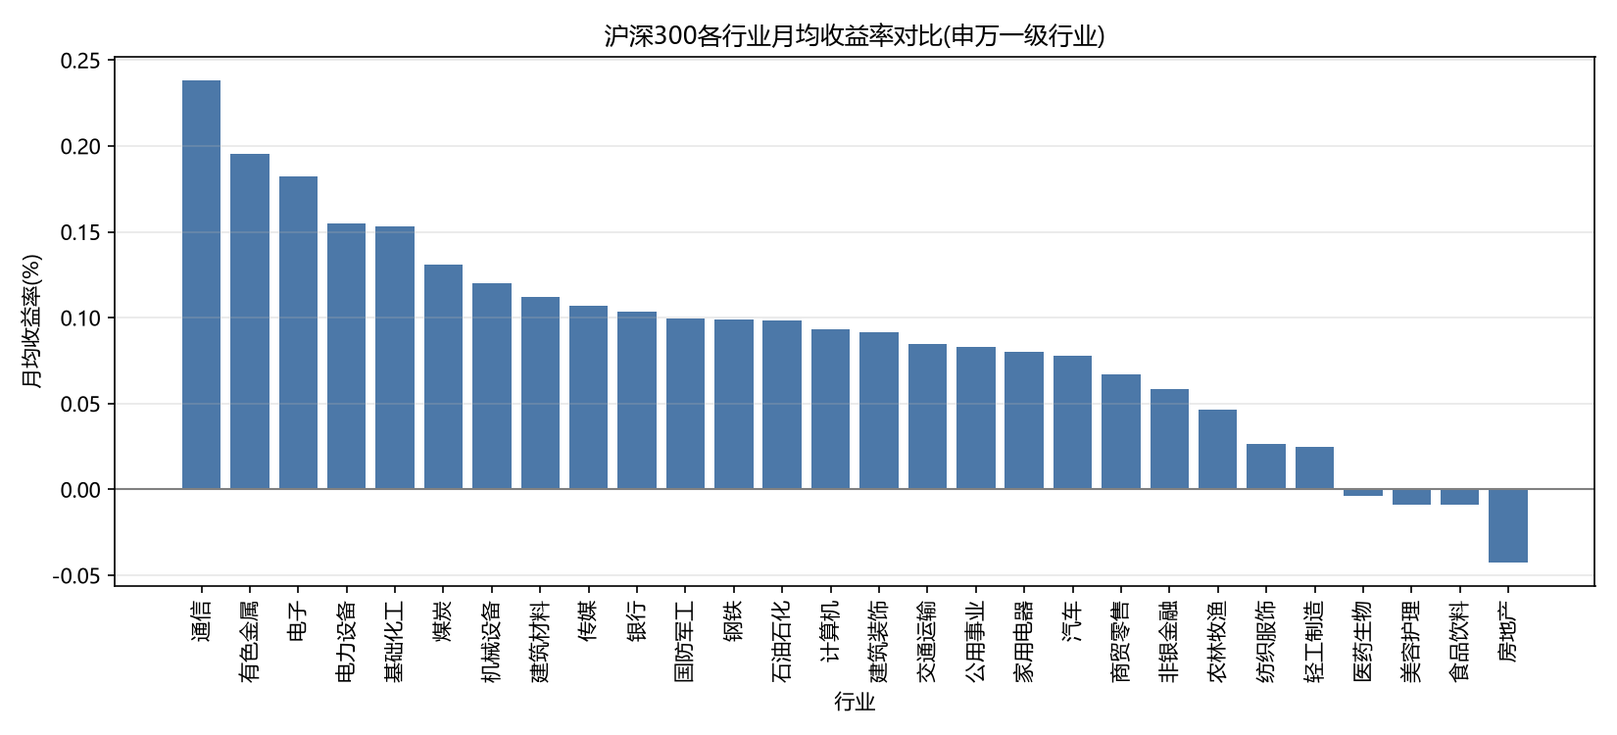
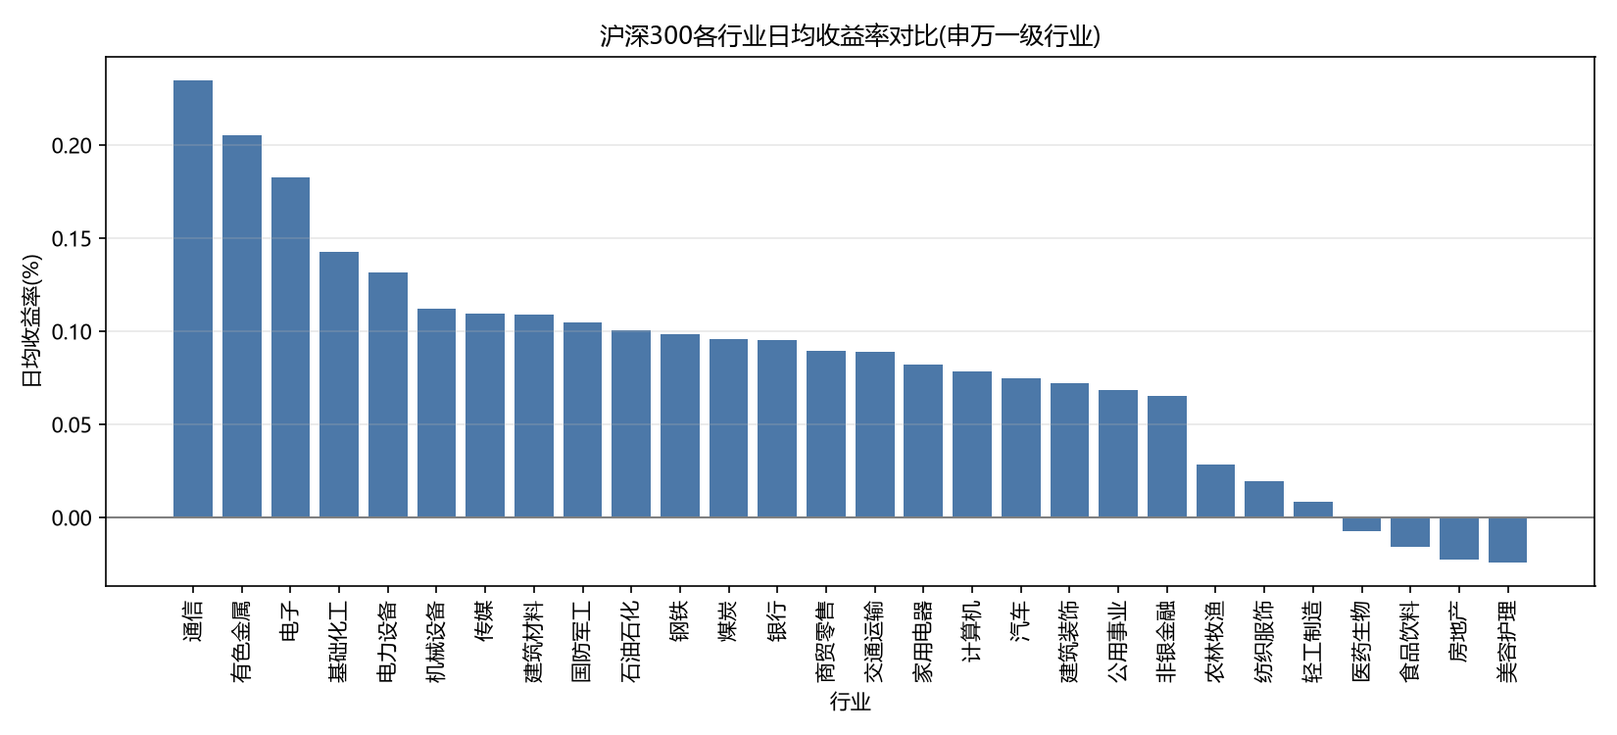
fix: 修正统计口径与行业分类, 提升结论严谨性
行业维度表
- 改用 akshare 申万一级行业官方成分股接口拉取, 逐股交叉校验
- 修正 6 只归类: 藏格矿业/德赛西威/汇川技术/中国动力/海南机场/中国卫通

统计口径
- 行业收益改按日收益率直接聚合: 原'月均值的均值'使各月等权而非各天等权,
  实测偏差最高 36.7% 且会改变排名
- 跨年份波动率对比统一只取 1-3 月: 2026 仅 44 个交易日, 与 2024/2025 的
  242/243 天不可比; 修正后通信波动率实为持平, 持续上升的是传媒

文档
- README 修正交易日数 540 -> 529, 更新结论与图表口径说明
- 补充停牌缺失的判定证据(开=收=高=低, 振幅=0, 涨跌额=0)

diff --git a/_gen_industry.py b/_gen_industry.py
@@ -1,71 +1,31 @@
 # -*- coding: utf-8 -*-
-"""一次性脚本: 依据真实成分股名单生成行业维度表 industry.csv"""
+"""生成行业维度表 data/industry.csv —— 数据源为申万一级行业分类的官方成分股接口。
+
+依赖 akshare 且需联网:  pip install akshare
+产物 industry.csv 已随仓库提交, 正常跑主脚本 eda_hs300.py 不需要执行本文件。
+本文件仅用于说明行业维度表的来源, 并在分类更新时重新生成。
+"""
+import akshare as ak
 import pandas as pd
 
-# 申万一级行业映射(按公开的申万行业分类标准整理)
-IND = {
-"600000":"银行","600009":"交通运输","600010":"钢铁","600011":"公用事业","600015":"银行","600016":"银行",
-"600018":"交通运输","600019":"钢铁","600023":"公用事业","600025":"公用事业","600026":"交通运输","600027":"公用事业",
-"600028":"石油石化","600029":"交通运输","600030":"非银金融","600031":"机械设备","600036":"银行","600039":"建筑装饰",
-"600048":"房地产","600050":"通信","600061":"非银金融","600066":"汽车","600085":"医药生物","600089":"电力设备",
-"600104":"汽车","600111":"有色金属","600115":"交通运输","600150":"国防军工","600160":"基础化工","600161":"医药生物",
-"600176":"建筑材料","600183":"电子","600188":"煤炭","600196":"医药生物","600219":"有色金属","600233":"交通运输",
-"600276":"医药生物","600309":"基础化工","600346":"石油石化","600362":"有色金属","600372":"国防军工","600377":"交通运输",
-"600406":"电力设备","600415":"商贸零售","600426":"基础化工","600436":"医药生物","600438":"电力设备","600460":"电子",
-"600482":"国防军工","600489":"有色金属","600515":"交通运输","600519":"食品饮料","600522":"通信","600547":"有色金属",
-"600570":"计算机","600584":"电子","600585":"建筑材料","600588":"计算机","600600":"食品饮料","600660":"汽车",
-"600674":"公用事业","600690":"家用电器","600741":"汽车","600760":"国防军工","600795":"公用事业","600803":"公用事业",
-"600809":"食品饮料","600845":"计算机","600875":"电力设备","600886":"公用事业","600887":"食品饮料","600893":"国防军工",
-"600900":"公用事业","600905":"公用事业","600918":"非银金融","600919":"银行","600926":"银行","600930":"公用事业",
-"600938":"石油石化","600941":"通信","600958":"非银金融","600989":"基础化工","600999":"非银金融","601006":"交通运输",
-"601009":"银行","601012":"电力设备","601018":"交通运输","601021":"交通运输","601058":"汽车","601059":"非银金融",
-"601066":"非银金融","601077":"银行","601088":"煤炭","601100":"机械设备","601111":"交通运输","601117":"建筑装饰",
-"601127":"汽车","601136":"非银金融","601138":"电子","601166":"银行","601169":"银行","601186":"建筑装饰",
-"601211":"非银金融","601225":"煤炭","601229":"银行","601236":"非银金融","601238":"汽车","601288":"银行",
-"601298":"交通运输","601318":"非银金融","601319":"非银金融","601328":"银行","601336":"非银金融","601360":"计算机",
-"601377":"非银金融","601390":"建筑装饰","601398":"银行","601456":"非银金融","601600":"有色金属","601601":"非银金融",
-"601607":"医药生物","601618":"建筑装饰","601628":"非银金融","601633":"汽车","601658":"银行","601668":"建筑装饰",
-"601669":"建筑装饰","601688":"非银金融","601689":"汽车","601698":"通信","601728":"通信","601766":"机械设备",
-"601788":"非银金融","601800":"建筑装饰","601808":"石油石化","601816":"交通运输","601818":"银行","601825":"银行",
-"601838":"银行","601857":"石油石化","601868":"建筑装饰","601872":"交通运输","601877":"电力设备","601878":"非银金融",
-"601881":"非银金融","601888":"商贸零售","601898":"煤炭","601899":"有色金属","601901":"非银金融","601916":"银行",
-"601919":"交通运输","601939":"银行","601985":"公用事业","601988":"银行","601995":"非银金融","601998":"银行",
-"603019":"计算机","603195":"轻工制造","603259":"医药生物","603260":"基础化工","603288":"食品饮料","603296":"电子",
-"603369":"食品饮料","603392":"医药生物","603501":"电子","603799":"有色金属","603893":"电子","603986":"电子",
-"603993":"有色金属","605117":"电力设备","605499":"食品饮料","688008":"电子","688009":"机械设备","688012":"电子",
-"688036":"电子","688041":"电子","688047":"电子","688082":"电子","688111":"计算机","688126":"电子",
-"688169":"家用电器","688187":"机械设备","688223":"电力设备","688256":"电子","688271":"医药生物","688303":"电力设备",
-"688396":"电子","688472":"电力设备","688506":"医药生物","688981":"电子","000001":"银行","000002":"房地产",
-"000063":"通信","000100":"电子","000157":"机械设备","000166":"非银金融","000301":"石油石化","000333":"家用电器",
-"000338":"汽车","000408":"有色金属","000425":"机械设备","000538":"医药生物","000568":"食品饮料","000596":"食品饮料",
-"000617":"非银金融","000625":"汽车","000630":"有色金属","000651":"家用电器","000661":"医药生物","000708":"钢铁",
-"000725":"电子","000768":"国防军工","000776":"非银金融","000786":"建筑材料","000792":"基础化工","000807":"有色金属",
-"000858":"食品饮料","000876":"农林牧渔","000895":"食品饮料","000938":"计算机","000963":"医药生物","000975":"有色金属",
-"000977":"计算机","000983":"煤炭","000999":"医药生物","001391":"交通运输","001965":"交通运输","001979":"房地产",
-"002001":"基础化工","002027":"传媒","002028":"电力设备","002049":"电子","002050":"家用电器","002074":"电力设备",
-"002142":"银行","002179":"国防军工","002230":"计算机","002236":"计算机","002241":"电子","002252":"医药生物",
-"002304":"食品饮料","002311":"农林牧渔","002352":"交通运输","002371":"电子","002384":"电子","002415":"计算机",
-"002422":"医药生物","002459":"电力设备","002460":"有色金属","002463":"电子","002466":"有色金属","002475":"电子",
-"002493":"石油石化","002594":"汽车","002600":"电子","002601":"基础化工","002625":"国防军工","002648":"基础化工",
-"002709":"电力设备","002714":"农林牧渔","002736":"非银金融","002916":"电子","002920":"汽车","002938":"电子",
-"003816":"公用事业","300014":"电力设备","300015":"医药生物","300033":"计算机","300059":"非银金融","300122":"医药生物",
-"300124":"电力设备","300251":"传媒","300274":"电力设备","300308":"通信","300316":"电力设备","300347":"医药生物",
-"300394":"通信","300408":"电子","300413":"传媒","300418":"传媒","300433":"电子","300442":"通信",
-"300476":"电子","300498":"农林牧渔","300502":"通信","300628":"通信","300661":"电子","300750":"电力设备",
-"300759":"医药生物","300760":"医药生物","300782":"电子","300803":"计算机","300832":"医药生物","300866":"电子",
-"300896":"美容护理","300979":"纺织服饰","300999":"农林牧渔","301236":"计算机","301269":"计算机","302132":"国防军工",
-}
+# 1. 拉取申万 31 个一级行业的全部成分股, 建立 股票代码 -> 行业 映射(共 5000+ 只)
+code2ind = {}
+for _, row in ak.sw_index_first_info().iterrows():
+    cons = ak.index_component_sw(symbol=row['行业代码'].split('.')[0])
+    for c in cons['证券代码'].astype(str).str.zfill(6):
+        code2ind[c] = row['行业名称']
+print(f'申万官方数据覆盖 {len(code2ind)} 只股票')
 
-base = 'data/hs300_stock_list.csv'
-lst = pd.read_csv(base, encoding='utf-8-sig', dtype={'code': str})
-lst['stock_code'] = lst['code'].str.split('.').str[-1]      # sh.600000 -> 600000
-lst['industry'] = lst['stock_code'].map(IND)
+# 2. 只保留沪深300成分股; 股票名称沿用原始名单表, 保证与行情表口径一致
+lst = pd.read_csv('data/hs300_stock_list.csv', encoding='utf-8-sig', dtype={'code': str})
+lst['stock_code'] = lst['code'].str.split('.').str[-1]   # sh.600000 -> 600000
+lst['industry'] = lst['stock_code'].map(code2ind)
 
-missing = lst.loc[lst['industry'].isna(), ['stock_code', 'code_name']]
-if len(missing):
-    raise SystemExit('以下股票未映射行业:\n' + missing.to_string(index=False))
+missing = lst.loc[lst['industry'].isna(), 'stock_code'].tolist()
+if missing:
+    raise SystemExit(f'以下成分股未在申万分类中找到, 需人工确认: {missing}')
 
+# 3. 输出三列维度表
 out = lst[['stock_code', 'code_name', 'industry']].rename(columns={'code_name': 'stock_name'})
 out.to_csv('data/industry.csv', index=False, encoding='utf-8-sig')
 print(f'已生成 data/industry.csv: {len(out)} 行, 覆盖 {out["industry"].nunique()} 个申万一级行业')
-print(out['industry'].value_counts().to_string())

diff --git a/eda_hs300.py b/eda_hs300.py
@@ -14,21 +14,21 @@ plt.rcParams['axes.unicode_minus'] = False
 # encoding='utf-8-sig': 两文件都带 BOM 头, 用普通 utf-8 会把首列名读成 "股票代码"
 price = pd.read_csv('data/stock_data.csv', encoding='utf-8-sig', dtype={'股票代码': str})
 ind = pd.read_csv('data/industry.csv', encoding='utf-8-sig', dtype={'stock_code': str})
-print(f'行情表 {price.shape} | 维度表 {ind.shape}')
-print(price.head(3)); price.info()
+print(f'行情表 {price.shape} | 维度表 {ind.shape}'); print(price.head(3)); price.info()
 
 # ===== 第二步: 数据清洗 =====
 # 2.1 日期转换: 原值为字符串, 不转 datetime 就无法按年/月分组
 price['日期'] = pd.to_datetime(price['日期'])
 # 2.2 排序: ffill 是"按顺序向下带值", 顺序错就会取到错误日期的值, 必须先按 股票+日期 排好
 price = price.sort_values(['股票代码', '日期'])
-# 2.3 缺失值: 缺失集中在 23 只个股的停牌日, 用 ffill 前向填充, 且必须 groupby 分股票填充
-#     为何不用均值填充: ①均值用了全期数据, 把未来信息泄露给了过去;
-#     ②成交/价格是连续序列, 停牌的真实业务含义就是"沿用上一交易日", 均值会破坏连续性;
-#     ③均值会凭空造出当天并不存在的成交量, 污染后续的波动率计算
+# 2.3 缺失值: 233 个缺失集中在 23 只个股的停牌日。判定依据不是猜, 而是缺失行本身满足
+#     开盘=收盘=最高=最低、振幅=0、涨跌额=0 —— 这是停牌的教科书特征(价格被填成停牌前收盘价占位)。
+#     用均值填充会踩三个坑: ①均值用了全期数据, 把未来信息泄露给过去; ②停牌的业务含义本就是
+#     "沿用上一交易日"; ③本项目要算收益率标准差, 插入均值会人为压低方差, 使波动率被系统性低估。
 vol_cols = ['成交量', '成交额', '换手率']
 price[vol_cols] = price.groupby('股票代码')[vol_cols].ffill()
-price['涨跌幅'] = price['涨跌幅'].fillna(0)  # 停牌当日无成交 -> 收益本就应为 0, 比 ffill 更准确
+# 停牌当日无成交, 涨跌额本就是 0, 因此收益填 0 而非 ffill —— 同一张表不同字段要按业务含义分开处理
+price['涨跌幅'] = price['涨跌幅'].fillna(0)
 # 2.4 去重: 按整行判断。重复行会让同一笔成交被统计两次, 直接虚增成交量与收益
 n0 = len(price); price = price.drop_duplicates()
 print(f'去重 {n0 - len(price)} 行, 残留缺失 {int(price.isna().sum().sum())} 个')
@@ -40,28 +40,31 @@ df = pd.merge(price, ind, left_on='股票代码', right_on='stock_code', how='le
 print(f'维度表关联率 {df["industry"].notna().mean():.2%}, 未匹配 {int(df["industry"].isna().sum())} 行')
 
 # ===== 第四步: 多维度分析 =====
-df['日收益率'] = df['涨跌幅'] / 100        # 涨跌幅单位是 %, 除以 100 得到小数收益率
-df['月份'] = df['日期'].dt.to_period('M')  # 预造月份列, 供分组与透视使用
-# 4.1 行业 × 月份: 月均收益率衡量赚钱能力, 月波动率(收益率标准差)衡量风险水平
-monthly = df.groupby(['industry', '月份'])['日收益率'].agg(月均收益率='mean', 月波动率='std').reset_index()
-# 4.2 行业总览: 把各月指标在行业维度再求平均, 得到行业整体画像, 并按收益降序排列
-sector = monthly.groupby('industry')[['月均收益率', '月波动率']].mean().sort_values('月均收益率', ascending=False)
-sector['收益波动比'] = sector['月均收益率'] / sector['月波动率']  # 每承担 1 单位风险换来的收益
+df['日收益率'] = df['涨跌幅'] / 100  # 涨跌幅单位是 %, 除以 100 得到小数收益率
+# 4.1 行业总览: 直接对【日收益率】求均值与标准差。不用"先算各月均值、再把各月平均"的两步法 ——
+#     各月交易日数不同(实测 50~115 天), 两步平均等于给"月"等权而非给"天"等权, 实测偏差最高 36.7% 且改变排名
+sector = df.groupby('industry')['日收益率'].agg(日均收益率='mean', 日波动率='std')
+sector = sector.sort_values('日均收益率', ascending=False)
+sector['收益波动比'] = sector['日均收益率'] / sector['日波动率']  # 每承担 1 单位风险换来的收益
 print('\n各行业整体表现(按收益降序):'); print(sector.round(5).to_string())
-# 4.3 数据透视表: 行=行业, 列=年份, 值=收益率标准差, 用来观察波动率随时间的变化
-pivot = pd.pivot_table(df, values='日收益率', index='industry', columns=df['日期'].dt.year, aggfunc='std')
-print('\n行业 × 年份 波动率透视表:'); print(pivot.round(5).to_string())
+# 4.2 月度视角: 行业 × 月份 的日均收益率, 用于观察各行业的月度节奏差异
+monthly = df.groupby(['industry', df['日期'].dt.to_period('M')])['日收益率'].mean().unstack()
+print('\n行业 × 月份 日均收益率:'); print(monthly.round(4).to_string())
+# 4.3 数据透视表: 行=行业, 列=年份, 值=收益率标准差。只取 1-3 月: 数据截至 2026-03-13,
+#     2026 仅 44 个交易日而 2024/2025 各有 242/243 天, 用 3 个月的标准差比 12 个月的不公平, 须同区间才可比
+q1 = df[df['日期'].dt.month <= 3]
+pivot = pd.pivot_table(q1, values='日收益率', index='industry', columns=q1['日期'].dt.year, aggfunc='std')
+print('\n行业 × 年份 波动率透视表(均只取 1-3 月, 可比口径):'); print(pivot.round(5).to_string())
 
 # ===== 第五步: 可视化 =====
-# 图1: 各行业月均收益率对比。用单色即可 —— 柱高已经表达了大小, 彩虹配色反而干扰阅读
+# 图1: 各行业日均收益率对比。用单色即可 —— 柱高已经表达了大小, 彩虹配色反而干扰阅读
 plt.figure(figsize=(11, 5))
-plt.bar(sector.index, sector['月均收益率'] * 100, color='#4C78A8')
+plt.bar(sector.index, sector['日均收益率'] * 100, color='#4C78A8')
 plt.axhline(0, color='gray', linewidth=1)  # 0 轴参考线, 用于区分正负收益
-plt.title('沪深300各行业月均收益率对比(申万一级行业)')
-plt.xlabel('行业'); plt.ylabel('月均收益率(%)')
+plt.title('沪深300各行业日均收益率对比(申万一级行业)')
+plt.xlabel('行业'); plt.ylabel('日均收益率(%)')
 plt.xticks(rotation=90); plt.grid(axis='y', alpha=0.3)  # 网格弱化, 不与数据抢视觉
 plt.tight_layout(); plt.savefig('chart1_行业收益率对比.png', dpi=150)
-
 # 图2: 取收益率第一的行业, 用该行业内累计成交额最大的股票作为代表股, 画其收盘价走势
 top_ind = sector.index[0]
 sub = df[df['industry'] == top_ind]

diff --git a/README.md b/README.md
@@ -26,10 +26,10 @@
 | `data/hs300_stock_list.csv` | 原始名单 | 300 行 × 3 列 | updateDate、code、code_name |
 | `data/industry.csv` | **维度表** | 300 行 × 3 列 | stock_code、stock_name、industry |
 
-- **时间跨度**：2024-01-02 ~ 2026-03-13（约 22 个月，540 个交易日）
+- **时间跨度**：2024-01-02 ~ 2026-03-13（约 22 个月，529 个交易日）
 - **行业覆盖**：28 个申万一级行业
 
-> **关于行业维度表**：原始名单表只有代码、名称、更新日期三列，**不含行业字段**。由于行业是本项目核心分析维度，故依据**申万一级行业分类标准**整理出 `industry.csv` 作为维度表，与行情事实表通过股票代码关联。申万分类是国内券商研究的主流口径，不同分类标准（中信、证监会）下个别股票的归属会存在差异。
+> **关于行业维度表**：原始名单表只有代码、名称、更新日期三列，**不含行业字段**。由于行业是本项目核心分析维度，故通过 `akshare` 的**申万一级行业成分股接口**（`sw_index_first_info` + `index_component_sw`）拉取官方分类，整理出 `industry.csv` 作为维度表，与行情事实表通过股票代码关联。申万分类是国内券商研究的主流口径，不同分类标准（中信、证监会）下个别股票的归属会存在差异。生成脚本见 `_gen_industry.py`。
 
 ---
 
@@ -37,15 +37,15 @@
 
 ```
 .
-├── eda_hs300.py                  # 主脚本：清洗 → 关联 → 聚合 → 可视化（77 行）
-├── _gen_industry.py              # 行业维度表生成器（映射字典 + 真实名单，保证主键对齐）
+├── eda_hs300.py                  # 主脚本：清洗 → 关联 → 聚合 → 可视化（80 行）
+├── _gen_industry.py              # 行业维度表生成器（从申万官方接口拉取，需 akshare + 联网）
 ├── requirements.txt
 ├── README.md
 ├── data/
 │   ├── stock_data.csv            # 事实表：行情数据
 │   ├── hs300_stock_list.csv      # 原始成分股名单
 │   └── industry.csv              # 维度表：行业归属
-├── chart1_行业收益率对比.png       # 图1：行业月均收益率
+├── chart1_行业收益率对比.png       # 图1：行业日均收益率
 └── chart2_代表股走势.png          # 图2：通信行业代表股走势
 ```
 
@@ -53,25 +53,25 @@
 
 ## 四、核心结论
 
-### 图1：各行业月均收益率对比
+### 图1：各行业日均收益率对比
 
-![各行业月均收益率对比](./chart1_行业收益率对比.png)
+![各行业日均收益率对比](./chart1_行业收益率对比.png)
 
 ### 图2：通信行业代表股（中际旭创 300308）收盘价走势
 
 ![代表股走势](./chart2_代表股走势.png)
 
-### 结论一：银行板块是"低风险高性价比"配置的首选
+### 结论一：银行是全场唯一的低波动板块，但风险收益比最优的是有色金属
 
-银行月波动率仅 **0.0132**，为 28 个行业中**最低**；收益波动比（月均收益率 ÷ 月波动率）达 **0.0785**，**全场第一**。与之对照，传媒波动率 0.0320（第 2 高）但收益波动比仅 0.0333。说明 2024—2026 期间，银行以最低的风险敞口拿到了中上游的收益（月均收益率 0.00104，排第 10），属于典型的防御型底仓标的。
+银行日波动率仅 **0.0138**，为 28 个行业中**最低**，不到最高板块交通运输（0.0363）的 40%。但若以"每单位风险换取的收益"（收益波动比）衡量，**有色金属以 0.0761 居首**，通信 0.0701、银行 0.0692 紧随其后 —— 三者数值接近，达成方式却完全不同：**银行靠压低波动，有色金属靠抬高收益**（日均收益率 0.00206，排第 2）。
 
-### 结论二：科技板块呈现"高波动高收益"特征，且风险敞口仍在扩大
+### 结论二：传媒是唯一波动率持续上升的板块，银行则持续下降
 
-通信（0.00238 / 0.0327）、电子（0.00182 / 0.0312）、电力设备（0.00155 / 0.0281）占据收益率前五中的三席，同时波动率也全部位列前五，**收益与风险高度同向**。透视表进一步显示，电子板块波动率三年稳定在 **0.031—0.033** 的高位未见收敛，通信则从 2025 年的 0.0330 升至 2026 年的 0.0383。
+在**同一口径**下（三年均只取 1—3 月，保证可比），传媒波动率从 2024 年的 **0.0355 升至 2026 年的 0.0474**，是 28 个行业中唯一逐年抬升的；银行则从 0.0129 持续降至 0.0113，风险不断收敛。对照来看，电子三年稳定在 **0.031—0.032** 的高位属"高位持平"，通信（0.0369 → 0.0348 → 0.0363）则基本持平，**并未扩大**。
 
 ### 补充观察
 
-房地产（-0.00042）、食品饮料（-0.00009）、医药生物（-0.00004）录得负收益，传统防御板块在该区间反而拖累组合。波动率方面，交通运输板块从 2024 年的 0.0496 大幅收敛至 2025 年的 0.0168，风险释放明显。
+美容护理（-0.00024）、房地产（-0.00023）、食品饮料（-0.00016）、医药生物（-0.00007）录得负收益。其中**美容护理最值得警惕**：收益垫底的同时波动率高达 0.0298（第 6 高），属于典型的"高风险低回报"。交通运输则相反——波动率全场最高（0.0363），收益率却仅排中游（0.00089），风险未能换来对等回报。
 
 ---
 
@@ -85,7 +85,21 @@
 
 ### 2. 缺失值用 ffill 前向填充 —— 而非均值
 
-数据中共 233 个缺失，**并非随机分布**，而是集中在 **23 只个股的 183 个交易日**上，属于**停牌型缺失**。不使用均值填充的三个理由：
+数据中共 233 个缺失，**并非随机分布**，而是集中在 **23 只个股的 183 个交易日**上，属于**停牌型缺失**。
+
+**判定依据不是推测，而是缺失行本身的特征**：
+
+```
+开盘 = 收盘 = 最高 = 最低     ← 四个价格完全相同
+振幅 = 0
+涨跌额 = 0
+成交量 / 成交额 / 换手率 / 涨跌幅 为空
+连续多个交易日
+```
+
+这是停牌的教科书特征——数据源把 OHLC 填成停牌前的收盘价作为占位，量能字段留空。
+
+不使用均值填充的三个理由：
 
 | 问题 | 业务后果 |
 | --- | --- |
@@ -93,10 +107,11 @@
 | 违背业务语义 | 停牌的真实含义是"价格未变、无成交"，而非"价格等于历史平均"；均值会造出并不存在的中间价 |
 | 污染波动率 | 本项目需计算收益率标准差衡量风险，插入均值会人为压低方差，导致**波动率被系统性低估** |
 
-两个实现细节：
+三个实现细节：
 
 - **按股票分组填充**（`groupby('股票代码').ffill()`）。若不分组，某只股票首日缺失会去继承上一只股票的收盘价，形成跨实体串数据。
-- **`涨跌幅` 字段填 0 而非 ffill**。停牌当日无成交，收益本就应为 0；用 ffill 会虚增收益。**同一张表中不同字段需按业务含义分别处理**。
+- **`涨跌幅` 字段填 0 而非 ffill**。停牌当日无成交，且缺失行的 `涨跌额` 本就为 0，收益填 0 有直接证据支撑；用 ffill 则会虚增收益。**同一张表中不同字段需按业务含义分别处理**。
+- **量能字段用 ffill 而非填 0，是一个有意识的取舍**。严格来说停牌期间成交量应为 0，ffill 填入的是上一交易日的成交量。此处保留 ffill 是因为：这些字段仅 `成交额` 被用于筛选行业代表股，不参与收益率与波动率计算，且缺失仅占全表 **0.147%**，对结论无影响。若后续需要做量能分析，则应改为填 0。
 
 ### 3. 关联后必须校验关联率
 
@@ -105,6 +120,38 @@
 ### 4. 去重作为防御性步骤
 
 `drop_duplicates()` 在本数据集上**移除 0 行**——数据本身无重复。该步骤作为流程中的防御性校验保留：重复行会让同一笔成交被统计两次，直接虚增成交量与收益率。
+
+### 5. 两个统计口径上的坑（本项目最初的版本踩过）
+
+这两点不影响"代码能不能跑"，但影响"结论对不对"，属于容易被面试官追问的地方。
+
+**坑一：不要"先算月均、再把各月平均"**
+
+直觉做法是先按 `groupby(['industry','月份'])` 求月均收益，再把 12 个月平均。但**各月交易日数并不相同**（实测 50~115 个股票-交易日），两步平均等于**给"月"等权而非给"天"等权**——短月份被赋予了与长月份相同的权重。
+
+实测偏差：煤炭 **+36.7%**、电力设备 **+21.4%**、基础化工 **+17.8%**，且**足以改变行业排名**。
+
+正确做法是直接对**日收益率**聚合：
+
+```python
+sector = df.groupby('industry')['日收益率'].agg(日均收益率='mean', 日波动率='std')
+```
+
+这天然就是日加权的，不需要额外写加权逻辑，代码反而更短。
+
+**坑二：跨年份比较必须取相同区间**
+
+数据集截至 **2026-03-13**，因此：
+
+| 年份 | 交易日数 | 月份数 |
+| --- | --- | --- |
+| 2024 | 242 | 12 |
+| 2025 | 243 | 12 |
+| 2026 | **44** | **3** |
+
+用 3 个月的标准差去对比 12 个月的标准差**并不公平**——样本量小 5 倍，估计噪声大得多。因此透视表**统一只取 1—3 月**，让三年处于相同区间。
+
+这个修正直接改变了结论：按全年口径看，通信波动率"从 2025 年 0.0330 升至 2026 年 0.0383"，貌似在扩大；但换成可比口径后，通信实为 **0.0369 → 0.0348 → 0.0363**，只是**持平**。真正持续上升的是**传媒**。
 
 ---
 
